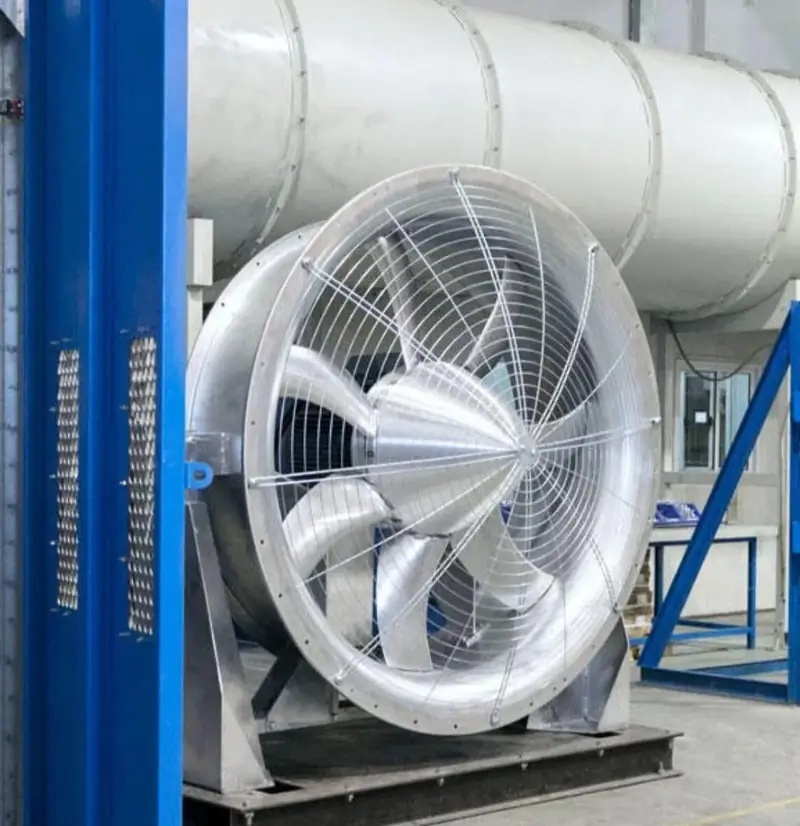
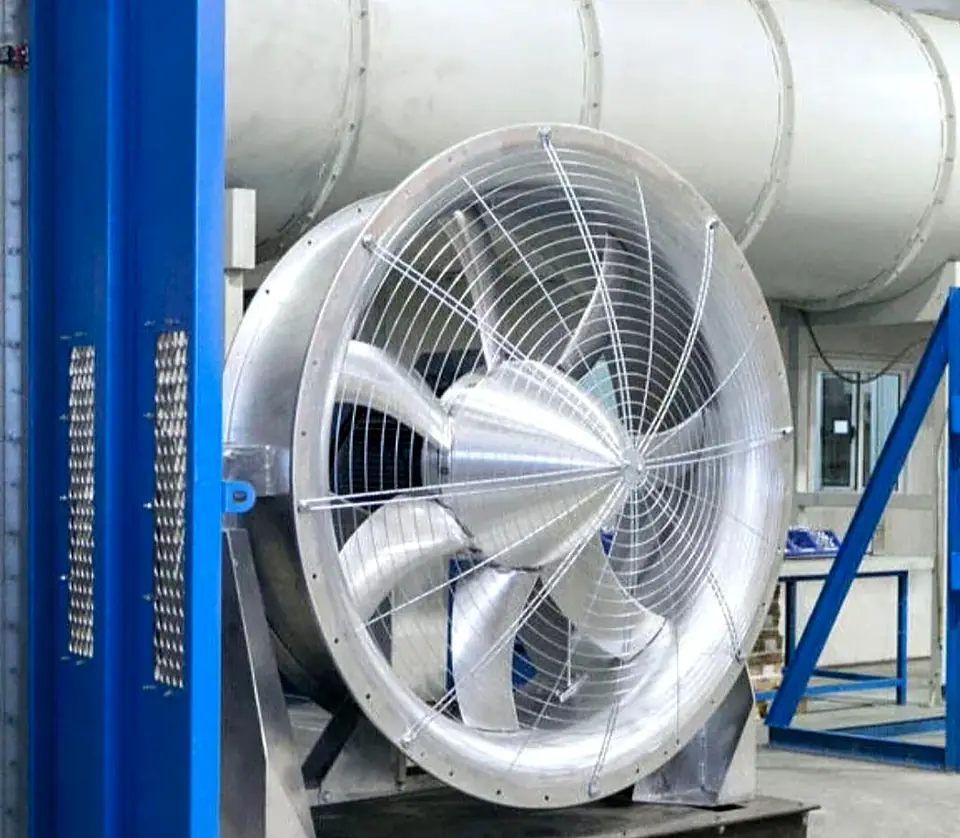
Hero slider v2: real wave photo, enhanced HD images, branded captions
- Replace generated SVG wave with a CC0 ocean-wave photo (StockSnap, Altered Reality)
- Re-process all slides at 1920/960 WebP with contrast, colour and sharpening
- Full-brightness photos; lighter radial overlay keeps text readable
- Branded caption chip per slide (service name + slide number) and progress bar
- Mobile: progress bar only, stronger overlay, no overlap with buttons

Claude-Session: https://claude.ai/code/session_01SgKrXrEfS5cA9TiGRy5iNH

diff --git a/index.html b/index.html
@@ -250,24 +250,26 @@ nav.scrolled{background:rgba(10,22,40,0.97);box-shadow:0 2px 30px rgba(0,0,0,0.5
 .hero-video-wrap{position:absolute;inset:0;width:100%;height:100%;overflow:hidden}
 .hero-video-wrap img.hero-bg{width:100%;height:100%;object-fit:cover;opacity:0.45}
 .hero-video-wrap video{width:100%;height:100%;object-fit:cover;opacity:0.45}
-/* HERO SLIDER: generated wave first (no LCP image cost), then photos crossfade every 2s */
-.hero-slider .hs-slide{position:absolute;inset:0;opacity:0;transition:opacity .9s ease}
+/* HERO SLIDER: 7 branded slides, crossfade every 2s, gentle Ken Burns */
+.hero-slider .hs-slide{position:absolute;inset:0;margin:0;opacity:0;transition:opacity .8s ease}
 .hero-slider .hs-slide.is-on{opacity:1}
-.hero-slider .hs-slide img{width:100%;height:100%;object-fit:cover;opacity:.6;transform:scale(1.04)}
-.hero-slider .hs-slide.is-on img{animation:hsZoom 3s ease-out forwards}
-@keyframes hsZoom{from{transform:scale(1.04)}to{transform:scale(1.12)}}
-.hs-wave{background:linear-gradient(180deg,#0a2236 0%,#0d4a55 38%,#11806f 62%,#0b3b4f 100%)}
-.hs-wave::before{content:"";position:absolute;left:50%;top:38%;width:90vw;height:60vh;transform:translate(-50%,-50%);background:radial-gradient(closest-side,rgba(110,231,183,.55),rgba(16,185,129,.18) 60%,transparent);animation:hsGlow 4s ease-in-out infinite alternate}
-@keyframes hsGlow{to{opacity:.6;transform:translate(-50%,-46%) scale(1.08)}}
-.hs-w{position:absolute;left:0;bottom:0;width:200%;will-change:transform}
-.hs-w path{vector-effect:non-scaling-stroke}
-.hs-w1{height:78%;fill:rgba(52,211,153,.35);stroke:rgba(236,253,245,.55);stroke-width:2;animation:hsDrift 11s linear infinite,hsBob 3.2s ease-in-out infinite alternate}
-.hs-w2{height:62%;fill:rgba(13,148,136,.7);stroke:rgba(236,253,245,.7);stroke-width:2.5;animation:hsDrift 7s linear infinite reverse,hsBob 2.6s ease-in-out infinite alternate-reverse}
-.hs-w3{height:44%;fill:rgba(6,78,90,.92);stroke:rgba(255,255,255,.85);stroke-width:3;animation:hsDrift 5s linear infinite,hsBob 2.2s ease-in-out infinite alternate}
-.hs-w4{height:26%;fill:#071a2b;stroke:rgba(255,255,255,.5);stroke-width:2;animation:hsDrift 3.6s linear infinite reverse}
-@keyframes hsDrift{from{transform:translateX(0)}to{transform:translateX(-50%)}}
-@keyframes hsBob{to{margin-bottom:-2.5%}}
-@media(prefers-reduced-motion:reduce){.hs-w,.hs-wave::before,.hero-slider .hs-slide.is-on img{animation:none}}
+.hero-slider .hs-slide img{width:100%;height:100%;object-fit:cover;transform:scale(1.02)}
+.hero-slider .hs-slide.is-on img{animation:hsZoom 3.2s ease-out forwards}
+@keyframes hsZoom{from{transform:scale(1.02)}to{transform:scale(1.08)}}
+#home .hero-overlay{background:radial-gradient(ellipse 62% 58% at 50% 52%,rgba(5,14,28,.66) 0%,rgba(5,14,28,.42) 60%,rgba(5,14,28,.22) 100%),linear-gradient(180deg,rgba(5,14,28,.55) 0%,transparent 22%)}
+#home .hero-overlay2{height:28%;background:linear-gradient(to top,#071222 0%,rgba(7,18,34,.6) 45%,transparent)}
+#home .hero-h1,#home .hero-sub,#home .hero-slogan{text-shadow:0 2px 18px rgba(0,0,0,.55)}
+.hs-ui{position:absolute;left:clamp(16px,4vw,56px);right:clamp(96px,8vw,120px);bottom:clamp(84px,9vh,96px);z-index:3;display:flex;align-items:flex-end;justify-content:space-between;gap:1rem;pointer-events:none}
+.hs-cap{display:flex;align-items:center;gap:.75rem;font-family:'Barlow Condensed',sans-serif;text-transform:uppercase;letter-spacing:.14em;color:#fff;background:rgba(7,18,34,.55);backdrop-filter:blur(8px);-webkit-backdrop-filter:blur(8px);border:1px solid rgba(0,180,166,.35);border-left:3px solid var(--teal);padding:.55rem 1rem;border-radius:2px;max-width:min(78vw,520px)}
+.hs-num{font-weight:700;font-size:1.05rem;color:var(--teal)}
+.hs-bar{width:22px;height:1px;background:rgba(255,255,255,.45);flex:none}
+.hs-txt{font-weight:500;font-size:.86rem;line-height:1.2;transition:opacity .35s}
+.hs-prog{display:flex;gap:6px}
+.hs-prog i{display:block;width:26px;height:3px;border-radius:2px;background:rgba(255,255,255,.25);overflow:hidden;position:relative}
+.hs-prog i.on::after{content:"";position:absolute;inset:0;background:var(--teal);transform-origin:left;animation:hsFill 2s linear forwards}
+@keyframes hsFill{from{transform:scaleX(0)}to{transform:scaleX(1)}}
+@media(max-width:768px){.hs-ui{left:0;right:0;bottom:104px;justify-content:center}.hs-cap{display:none}.hs-prog i{width:20px}#home .hero-scroll{display:none}#home .hero-overlay{background:linear-gradient(180deg,rgba(5,14,28,.6) 0%,rgba(5,14,28,.5) 40%,rgba(5,14,28,.6) 100%)}}
+@media(prefers-reduced-motion:reduce){.hero-slider .hs-slide.is-on img,.hs-prog i.on::after{animation:none}}
 .hero-overlay{position:absolute;inset:0;background:linear-gradient(135deg,rgba(7,18,34,0.72) 0%,rgba(0,30,60,0.45) 50%,rgba(7,18,34,0.88) 100%)}
 .hero-overlay2{position:absolute;bottom:0;left:0;right:0;height:35%;background:linear-gradient(to top,#071222,transparent)}
 .hero-content{position:relative;z-index:2;text-align:center;padding:2rem;max-width:960px}
@@ -1458,19 +1460,18 @@ em .typing-cursor { background: var(--gold); box-shadow: 0 0 10px rgba(212,168,6
 <!-- HERO -->
 <main id="main">
 <section id="home">
-  <div class="hero-video-wrap hero-slider" id="heroSlider" aria-hidden="true">
-    <div class="hs-slide hs-wave is-on">
-      <svg class="hs-w hs-w1" viewBox="0 0 2880 320" preserveAspectRatio="none"><path d="M0 170 C240 90 480 90 720 170 S1200 250 1440 170 S1920 90 2160 170 S2640 250 2880 170 V320 H0Z"/></svg>
-      <svg class="hs-w hs-w2" viewBox="0 0 2880 320" preserveAspectRatio="none"><path d="M0 140 C240 40 480 40 720 140 S1200 240 1440 140 S1920 40 2160 140 S2640 240 2880 140 V320 H0Z"/></svg>
-      <svg class="hs-w hs-w3" viewBox="0 0 2880 320" preserveAspectRatio="none"><path d="M0 190 C180 140 540 140 720 190 S1260 240 1440 190 S1980 140 2160 190 S2700 240 2880 190 V320 H0Z"/></svg>
-      <svg class="hs-w hs-w4" viewBox="0 0 2880 320" preserveAspectRatio="none"><path d="M0 120 C240 60 480 60 720 120 S1200 180 1440 120 S1920 60 2160 120 S2640 180 2880 120 V320 H0Z"/></svg>
-    </div>
-    <div class="hs-slide"><img data-src="images/hero/steam-boilers-lahore.webp" data-srcset="images/hero/steam-boilers-lahore-sm.webp 800w, images/hero/steam-boilers-lahore.webp 1600w" sizes="100vw" alt="Steam boiler house with twin fire-tube boilers" decoding="async"></div>
-    <div class="hs-slide"><img data-src="images/hero/textile-finishing-machine.webp" data-srcset="images/hero/textile-finishing-machine-sm.webp 800w, images/hero/textile-finishing-machine.webp 1051w" sizes="100vw" alt="Textile finishing range with fabric rolls" decoding="async"></div>
-    <div class="hs-slide"><img data-src="images/hero/cooling-tower.webp" data-srcset="images/hero/cooling-tower-sm.webp 800w, images/hero/cooling-tower.webp 1035w" sizes="100vw" alt="Industrial cooling tower cells on a rooftop" decoding="async"></div>
-    <div class="hs-slide"><img data-src="images/hero/ro-plant.webp" data-srcset="images/hero/ro-plant-sm.webp 800w, images/hero/ro-plant.webp 1080w" sizes="100vw" alt="Industrial reverse osmosis plant with membrane vessels" decoding="async"></div>
-    <div class="hs-slide"><img data-src="images/hero/industrial-exhaust-fan.webp" data-srcset="images/hero/industrial-exhaust-fan-sm.webp 800w, images/hero/industrial-exhaust-fan.webp 1066w" sizes="100vw" alt="Industrial axial exhaust fan" decoding="async"></div>
-    <div class="hs-slide"><img data-src="images/hero/industrial-cleaning-chemicals.webp" data-srcset="images/hero/industrial-cleaning-chemicals.webp 760w" sizes="100vw" alt="Technician applying industrial cleaner degreaser" decoding="async"></div>
+  <div class="hero-video-wrap hero-slider" id="heroSlider">
+    <figure class="hs-slide is-on" data-cap="Water Safe Water Treatment Technologies"><img src="images/hero/ocean-wave.webp" srcset="images/hero/ocean-wave-sm.webp 960w, images/hero/ocean-wave.webp 1920w" fetchpriority="high" sizes="100vw" width="1920" height="1080" alt="Ocean wave in teal and green light" style="object-position:center 55%" decoding="async"></figure>
+    <figure class="hs-slide" data-cap="Steam Boiler Supply & Erection"><img data-src="images/hero/steam-boilers.webp" data-srcset="images/hero/steam-boilers-sm.webp 960w, images/hero/steam-boilers.webp 1920w" sizes="100vw" width="1920" height="1080" alt="Twin fire-tube steam boilers with burners in a boiler house" style="object-position:center" decoding="async"></figure>
+    <figure class="hs-slide" data-cap="ECO-Series Textile Auxiliaries"><img data-src="images/hero/textile-finishing-range.webp" data-srcset="images/hero/textile-finishing-range-sm.webp 960w, images/hero/textile-finishing-range.webp 1920w" sizes="100vw" width="1920" height="1080" alt="Textile finishing range with fabric batching rolls" style="object-position:center" decoding="async"></figure>
+    <figure class="hs-slide" data-cap="Cooling Tower Water Treatment"><img data-src="images/hero/cooling-tower.webp" data-srcset="images/hero/cooling-tower-sm.webp 960w, images/hero/cooling-tower.webp 1920w" sizes="100vw" width="1920" height="1080" alt="Industrial cooling tower cells on a plant rooftop" style="object-position:center 40%" decoding="async"></figure>
+    <figure class="hs-slide" data-cap="RO Plants & Membrane Chemicals"><img data-src="images/hero/ro-plant.webp" data-srcset="images/hero/ro-plant-sm.webp 960w, images/hero/ro-plant.webp 1920w" sizes="100vw" width="1920" height="1080" alt="Industrial reverse osmosis plant with membrane pressure vessels" style="object-position:center" decoding="async"></figure>
+    <figure class="hs-slide" data-cap="Industrial Exhaust Fans"><img data-src="images/hero/industrial-exhaust-fan.webp" data-srcset="images/hero/industrial-exhaust-fan-sm.webp 960w, images/hero/industrial-exhaust-fan.webp 1920w" sizes="100vw" width="1920" height="1080" alt="Stainless steel industrial axial exhaust fan" style="object-position:center 45%" decoding="async"></figure>
+    <figure class="hs-slide" data-cap="Industrial Cleaning Chemicals"><img data-src="images/hero/industrial-cleaning.webp" data-srcset="images/hero/industrial-cleaning-sm.webp 960w, images/hero/industrial-cleaning.webp 1920w" sizes="100vw" width="1920" height="1080" alt="Technician applying industrial cleaner degreaser to process equipment" style="object-position:center 40%" decoding="async"></figure>
+  </div>
+  <div class="hs-ui" aria-hidden="true">
+    <div class="hs-cap"><span class="hs-num" id="hsNum">01</span><span class="hs-bar"></span><span class="hs-txt" id="hsTxt">Water Safe Water Treatment Technologies</span></div>
+    <div class="hs-prog" id="hsProg"><i></i><i></i><i></i><i></i><i></i><i></i><i></i></div>
   </div>
   <div class="hero-overlay"></div>
   <div class="hero-overlay2"></div>
@@ -2938,11 +2939,13 @@ const TypingEngine = {
 <script>/* CLIENT_ALT */(function(){var A={"Gemini_Generated_Image_36rtkw36rtkw36rt.png": "Maqbool", "WhatsApp Image 2026-04-25 at 13.05.19 (1).jpeg": "Naveena Denim Limited", "WhatsApp Image 2026-04-25 at 13.05.19 (2).jpeg": "Khas Textile Mills (Pvt) Ltd.", "WhatsApp Image 2026-04-25 at 13.05.19.jpeg": "Naveena Developers", "WhatsApp Image 2026-04-25 at 13.05.20 (1).jpeg": "Alam", "WhatsApp Image 2026-04-25 at 13.05.20.jpeg": "DIN Group", "WhatsApp Image 2026-04-25 at 13.05.21 (1).jpeg": "Fazal Group", "WhatsApp Image 2026-04-25 at 13.05.21.jpeg": "Amir Textile Industries", "WhatsApp Image 2026-04-25 at 13.05.22.jpeg": "Hussain Mills Limited", "WhatsApp Image 2026-04-25 at 13.05.23 (1).jpeg": "Gul Ahmed Textile Mills Limited", "WhatsApp Image 2026-04-25 at 13.05.23.jpeg": "Kohinoor Textile Mills Ltd.", "WhatsApp Image 2026-04-25 at 13.05.24 (1).jpeg": "Ahmed Oriental Textile Mills Ltd.", "WhatsApp Image 2026-04-25 at 13.05.24.jpeg": "Alkaram", "WhatsApp Image 2026-04-25 at 13.05.25.jpeg": "Sapphire", "WhatsApp Image 2026-04-25 at 13.05.26 (1).jpeg": "Kohat Textile Mills Ltd. (Saif Group)", "WhatsApp Image 2026-04-25 at 13.05.26 (2).jpeg": "Suraj Cotton Mills Limited", "WhatsApp Image 2026-04-25 at 13.05.26.jpeg": "Colony Textile Mills Limited", "WhatsApp Image 2026-04-25 at 13.05.27 (1).jpeg": "Shams Textile", "WhatsApp Image 2026-04-25 at 13.05.27.jpeg": "Crescent Textile Mills Limited", "WhatsApp Image 2026-04-25 at 13.05.28 (1).jpeg": "ZARA", "WhatsApp Image 2026-04-25 at 13.05.28.jpeg": "Premium Textile Mills Limited", "WhatsApp Image 2026-04-25 at 13.05.29.jpeg": "Nagina Group", "WhatsApp Image 2026-04-25 at 13.05.30 (1).jpeg": "Idrees Textile Mills Ltd.", "WhatsApp Image 2026-04-25 at 13.05.30.jpeg": "Al Qadir Textile Ltd.", "WhatsApp Image 2026-04-25 at 13.05.31 (1).jpeg": "Gulshan Textiles", "WhatsApp Image 2026-04-25 at 13.05.31.jpeg": "Quetta Textile Mills Ltd.", "WhatsApp Image 2026-04-25 at 13.05.32.jpeg": "Shadman Cotton Mills Limited", "WhatsApp Image 2026-04-25 at 13.05.33 (1).jpeg": "Mekotex", "WhatsApp Image 2026-04-25 at 13.05.34 (1).jpeg": "MASCO Spinning Mills (Pvt) Ltd.", "WhatsApp Image 2026-04-25 at 13.05.34.jpeg": "Janana De Malucho Textile Mills Limited", "WhatsApp Image 2026-04-25 at 13.05.35.jpeg": "MIMA Group", "WhatsApp Image 2026-04-25 at 13.05.36 (1).jpeg": "Badsha Group of Industries", "WhatsApp Image 2026-04-25 at 13.05.37.jpeg": "Client logo", "WhatsApp Image 2026-04-25 at 13.05.38 (1).jpeg": "Rustam Textile", "WhatsApp Image 2026-04-25 at 13.05.38.jpeg": "Azgard-9", "WhatsApp Image 2026-04-25 at 13.05.39 (1).jpeg": "AGI Denim", "WhatsApp Image 2026-04-25 at 13.05.39.jpeg": "Fazal Cloth Mills Limited", "WhatsApp Image 2026-04-25 at 13.05.40.jpeg": "YBG", "WhatsApp Image 2026-04-26 at 10.04.06.jpeg": "Ahmad Hassan Textile Mills Limited", "WhatsApp Image 2026-04-26 at 10.50.49.jpeg": "Rizwan Textile Mills Ltd.", "WhatsApp Image 2026-04-26 at 10.56.31.jpeg": "H.A.R. Textile Mills Private Limited", "WhatsApp Image 2026-04-26 at 10.58.12.jpeg": "Hashir Textile", "WhatsApp Image 2026-05-30 at 04.12.08 (1)_11zon.jpeg": "Best Exports Private Limited", "WhatsApp Image 2026-05-30 at 04.12.08_11zon.jpeg": "Nishat", "WhatsApp Image 2026-05-30 at 04.12.09 (1)_11zon.jpeg": "Artistic Milliners", "WhatsApp Image 2026-05-30 at 04.12.09_11zon.jpeg": "Style Textile", "WhatsApp Image 2026-05-30 at 04.12.10 (1)_11zon.jpeg": "Mahmood Group", "WhatsApp Image 2026-05-30 at 04.12.10_11zon.jpeg": "Tata Pakistan", "WhatsApp Image 2026-05-30 at 04.12.11 (1)_11zon.jpeg": "Gadoon Textile Mills Limited", "WhatsApp Image 2026-05-30 at 04.12.11_11zon.jpeg": "ZA", "WhatsApp Image 2026-05-30 at 04.12.12_11zon.jpeg": "Saif Group", "WhatsApp Image 2026-05-30 at 04.12.15 (1)_11zon.jpeg": "Cola Next", "WhatsApp Image 2026-05-30 at 04.12.15 (2)_11zon.jpeg": "Madinah Sugar Mills", "WhatsApp Image 2026-05-30 at 04.12.15_11zon.jpeg": "Falcon Cement", "WhatsApp Image 2026-05-30 at 04.12.17 (1)_11zon.jpeg": "Client logo", "WhatsApp Image 2026-05-30 at 04.12.17 (2)_11zon (1).jpeg": "Client logo", "WhatsApp Image 2026-05-30 at 04.12.17_11zon.jpeg": "Fateh Textile Mills Ltd.", "WhatsApp Image 2026-05-30 at 04.12.18 (1)_11zon.jpeg": "Gulshan Group of Companies", "WhatsApp Image 2026-05-30 at 04.12.18_11zon.jpeg": "Client logo", "WhatsApp Image 2026-05-30 at 04.12.19 (1)_11zon.jpeg": "H. Nizam Din & Sons", "WhatsApp Image 2026-05-30 at 04.12.19 (2)_11zon.jpeg": "Pakistan Oil Mills (Pvt) Ltd.", "WhatsApp Image 2026-05-30 at 04.12.19_11zon.jpeg": "Equity Textiles", "WhatsApp Image 2026-05-30 at 04.12.20_11zon.jpeg": "Atlas Tires", "WhatsApp Image 2026-05-30 at 04.17.13_11zon.jpeg": "Ranipur Sugar Mills (Pvt) Ltd.", "WhatsApp Image 2026-05-30 at 04.17.16_11zon.jpeg": "M.K. Sons (Pvt) Ltd.", "WhatsApp Image 2026-05-30 at 04.17.18 (1)_11zon.jpeg": "Master Textile", "WhatsApp Image 2026-05-30 at 04.17.18 (2)_11zon.jpeg": "Sajjad Textiles", "WhatsApp Image 2026-05-30 at 04.17.18_11zon.jpeg": "Resham Textiles", "WhatsApp Image 2026-05-30 at 04.17.19_11zon.jpeg": "Paradise Fabrics", "WhatsApp Image 2026-05-30 at 04.17.20 (1)_11zon.jpeg": "Zephyr Textiles Limited", "WhatsApp Image 2026-05-30 at 04.17.20_11zon.jpeg": "Shahtaj Textile", "WhatsApp Image 2026-05-30 at 04.17.22_11zon.jpeg": "Popular Group of Industries", "WhatsApp Image 2026-05-30 at 04.17.23 (1)_11zon.jpeg": "Metco Textile (Pvt) Limited", "WhatsApp Image 2026-05-30 at 04.17.23 (2)_11zon.jpeg": "Client logo", "WhatsApp Image 2026-05-30 at 04.17.23_11zon.jpeg": "Client logo", "WhatsApp Image 2026-05-30 at 04.17.24_11zon.jpeg": "Apollo", "WhatsApp Image 2026-05-30 at 05.34.51 (1)_11zon.jpeg": "Ahmed Fine Textile Mills Ltd. (AFTML)", "WhatsApp Image 2026-05-30 at 05.34.51_11zon.jpeg": "Rana Textile Mills", "WhatsApp Image 2026-05-30 at 05.34.52_11zon.jpeg": "Jamal Fabrics (Pvt) Ltd.", "WhatsApp Image 2026-05-30 at 05.34.53 (1)_11zon.jpeg": "Rizwan Textile Mills Ltd.", "WhatsApp Image 2026-05-30 at 05.34.53_11zon.jpeg": "IFL"};function fix(){document.querySelectorAll(".client-logo-item img").forEach(function(i){var k=decodeURIComponent((i.getAttribute("src")||"").split("/").pop());if(A[k])i.alt=A[k]})}fix();setTimeout(fix,1500);window.addEventListener("load",fix)})();</script>
 <div class="sx-bar"><a href="tel:+923054444125">Call</a><a href="https://wa.me/923054444125" target="_blank" rel="noopener">WhatsApp</a><a href="/request-quote">Get a Quote</a></div>
 <script>
-(function(){var el=document.getElementById('heroSlider');if(!el)return;var sl=el.querySelectorAll('.hs-slide'),i=0,t;
+(function(){var el=document.getElementById('heroSlider');if(!el)return;
+var sl=el.querySelectorAll('.hs-slide'),bars=document.querySelectorAll('#hsProg i'),num=document.getElementById('hsNum'),txt=document.getElementById('hsTxt'),i=0,t;
+function show(n){sl[i].classList.remove('is-on');bars[i].classList.remove('on');i=n;sl[i].classList.add('is-on');void bars[i].offsetWidth;bars[i].classList.add('on');num.textContent=(i<9?'0':'')+(i+1);txt.textContent=sl[i].dataset.cap}
+bars[0].classList.add('on');
 if(window.matchMedia('(prefers-reduced-motion: reduce)').matches)return;
 function load(){sl.forEach(function(s){var m=s.querySelector('img[data-src]');if(m){m.srcset=m.dataset.srcset;m.src=m.dataset.src;m.removeAttribute('data-src')}})}
-function next(){sl[i].classList.remove('is-on');i=(i+1)%sl.length;sl[i].classList.add('is-on')}
-function go(){clearInterval(t);t=setInterval(next,2000)}
+function go(){clearInterval(t);t=setInterval(function(){show((i+1)%sl.length)},2000)}
 window.addEventListener('load',function(){load();go()});
 document.addEventListener('visibilitychange',function(){document.hidden?clearInterval(t):go()});
 })();
